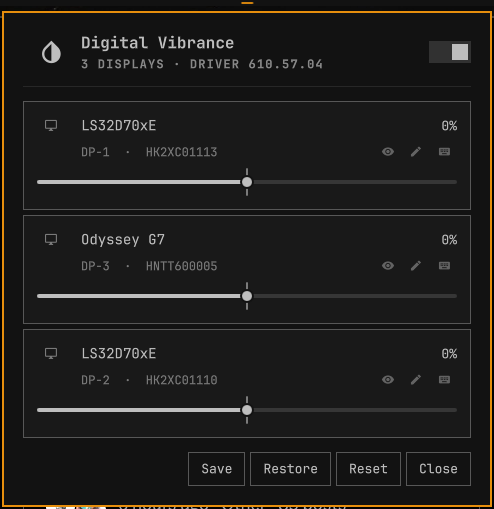
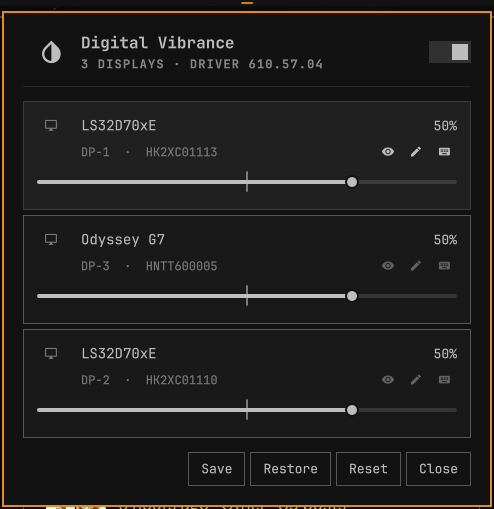
Drive the panel from the keyboard, and halve the neutral mark
The mark at zero loses half its protrusion. Sizing it off the knob rather than
halving the whole thing keeps it visible at exactly 0%, where the knob parks on
top of it — a mark shorter than the knob would vanish precisely when the slider
sits on the value it marks, which is where all three displays sit by default.

The panel is now keyboard driven. A row cursor tracks which display the keys act
on: Tab and up/down walk it through the cards in the order they are shown,
wrapping at the ends; left/right move that display by 5%; Enter flashes it, and
Escape still closes. Hovering a card moves the cursor there too, so the arrows
act on whatever is under the pointer without a separate step, and the cursored
row lights up the same way a hovered one does. Tab no longer jumps to the
neighbouring bar popup — with a handful of rows, cycling inside the panel is the
more useful thing for it to do. Arrows step 5% rather than the wheel's 1%:
crossing the range a percent at a time would take two hundred presses, and the
slider and the numeric field are still there for an exact landing.

None of that worked at first, and the reason is worth recording. PopupCard is an
xdg-popup, which by its own documentation only receives keys once a click or
hover has routed focus through its parent surface — the arrow keys went nowhere
at all. KeyboardPanel is the layer-shell equivalent, same API plus a
keyboard-focus prime, and it hands active focus to its `focusTarget` once the
[…]

diff --git a/Panel.qml b/Panel.qml
@@ -41,6 +41,36 @@ Panel {
   // Whether the install instructions under the missing-binary warning are open.
   property bool helpOpen: false
 
+  // ------------------------------------------------------------ keyboard
+  //
+  // Which row the keyboard is aimed at, as a position in `displays`. Hovering a
+  // row moves it there too, so the arrows always act on the row under the
+  // cursor without the user having to think about which input owns the panel.
+  property int cursorRow: 0
+
+  // Arrow steps are coarser than the wheel's 1%: crossing the full -100..100
+  // range a percent at a time would take two hundred presses. The slider and
+  // the numeric field remain the way to land on an exact value.
+  readonly property int keyStep: 5
+
+  function moveCursor(delta) {
+    var n = displays.length
+    if (n === 0) return
+    cursorRow = ((cursorRow + delta) % n + n) % n
+  }
+
+  function cursorDisplay() {
+    var n = displays.length
+    if (n === 0) return null
+    return displays[Math.max(0, Math.min(n - 1, cursorRow))]
+  }
+
+  function nudgeCursorValue(deltaPercent) {
+    var d = cursorDisplay()
+    if (!d || !service) return
+    service.setVibrancePercent(d.index, service.percentFor(d.index) + deltaPercent)
+  }
+
   // The card's inner padding, and therefore the amount the header and footer
   // are inset by so that *their* contents share the rows' left edge.
   //
@@ -82,12 +112,13 @@ Panel {
       if (service && service.identifyIndex >= 0) service.stopIdentify()
       return
     }
+    cursorRow = 0
     // Re-reading on open is cheap (one process) and catches vibrance or a
     // monitor layout changed by anything else since the panel was last shown.
     if (service) service.refresh()
-    // The catcher only sees keys once it holds focus, and the popup window
-    // does not exist yet on the frame `opened` flips.
-    Qt.callLater(function() { if (keyCatcher) keyCatcher.forceActiveFocus() })
+    // Focus is the panel's own job now: KeyboardPanel primes the surface for
+    // keyboard input and then hands active focus to its `focusTarget`, which
+    // has to wait for the surface to map rather than for `opened` to flip.
   }
 
   function applyPercent(index, percent) {
@@ -95,12 +126,18 @@ Panel {
     service.setVibrancePercent(index, Math.round(percent))
   }
 
-  PopupCard {
+  // KeyboardPanel, not PopupCard. PopupCard is an xdg-popup, which only ever
+  // receives keys once a click or hover has routed focus through its parent
+  // surface — arrow keys simply went nowhere. KeyboardPanel is the layer-shell
+  // equivalent with the same API plus a keyboard-focus prime, and `focusTarget`
+  // hands active focus to the key catcher once the surface has mapped.
+  KeyboardPanel {
     id: card
     anchorItem: root.anchorItem
     owner: root.barIdentity
     bar: root.bar
     open: root.opened
+    focusTarget: keyCatcher
     // One margin on every side. The card borders, the hero's toggle and the
     // footer buttons all sit on the content column's edge, so this is equally
     // the gap to the right of the buttons and the gap below them.
@@ -115,7 +152,24 @@ Panel {
       // the Escape that dismisses it.
       blocked: root.editingIndex >= 0 || root.numericIndex >= 0
       onCloseRequested: root.close()
-      onTabRequested: function(direction) { root.switchPanel(direction) }
+      // Tab walks the displays rather than jumping to the neighbouring bar
+      // popup. With at most a handful of rows, cycling within the panel is the
+      // more useful thing for the key to do.
+      onTabRequested: function(direction) { root.moveCursor(direction) }
+      // Left/right adjust the row the cursor is on; up/down walk between rows,
+      // the same as Tab. The catcher maps h/j/k/l onto these too.
+      onMoveRequested: function(dx, dy) {
+        if (dx !== 0) root.nudgeCursorValue(dx * root.keyStep)
+        else if (dy !== 0) root.moveCursor(dy)
+      }
+      // Enter flashes the display the cursor is on, so a keyboard user can
+      // still answer "which monitor is this row?".
+      onReturnRequested: {
+        var d = root.cursorDisplay()
+        if (!d || !root.service) return
+        if (root.service.identifyIndex === d.index) root.service.stopIdentify()
+        else root.service.identify(d.index)
+      }
     }
 
     Column {
@@ -301,14 +355,16 @@ Panel {
           delegate: BorderSurface {
             id: rowCard
             required property var modelData
+            required property int index
 
+            readonly property bool cursored: root.cursorRow === index
             readonly property int displayIndex: modelData.index
             readonly property var monitor: root.service ? root.service.monitorFor(displayIndex) : null
             readonly property string customName: root.service ? root.service.nameFor(displayIndex) : ""
             readonly property bool editing: root.editingIndex === displayIndex
             readonly property bool numeric: root.numericIndex === displayIndex
             readonly property bool identifying: root.service ? root.service.identifyIndex === displayIndex : false
-            readonly property bool hot: hover.hovered || editing || numeric || identifying
+            readonly property bool hot: hover.hovered || cursored || editing || numeric || identifying
 
             width: parent.width
             implicitHeight: rowColumn.implicitHeight + contentTopInset + contentBottomInset
@@ -336,7 +392,12 @@ Panel {
               ColorAnimation { duration: 120; easing.type: Easing.OutCubic }
             }
 
-            HoverHandler { id: hover }
+            // Pointing at a row aims the keyboard at it as well, so the arrows
+            // act on whatever is under the cursor without a separate step.
+            HoverHandler {
+              id: hover
+              onHoveredChanged: if (hovered) root.cursorRow = rowCard.index
+            }
 
             // Dragging a slider fires on every pixel of movement. Each apply is
             // a process spawn, so the drag is rate-limited here and the final
@@ -595,7 +656,12 @@ Panel {
                 Rectangle {
                   anchors.centerIn: parent
                   width: Math.max(1, Style.space(2))
-                  height: slider.knobSize + Style.space(12)
+                  // Half the protrusion it used to have. Sizing it by the knob
+                  // rather than halving the whole mark keeps it visible at
+                  // exactly 0%, where the knob parks on top of it — a mark
+                  // shorter than the knob would disappear precisely when the
+                  // slider is sitting on the value it marks.
+                  height: slider.knobSize + Style.space(6)
                   radius: width / 2
                   color: root.dim
                 }

diff --git a/DEVELOPMENT.md b/DEVELOPMENT.md
@@ -49,10 +49,17 @@ Worth knowing, because guessing at them is how the first version broke:
   and positions that panel itself and injects `service` into it directly. This
   plugin does not use it; its panel is nested inside the bar widget, which is
   what every other panel-bearing plugin does.
-- Base components come from `qs.Ui` (`BarWidget`, `Panel`, `PopupCard`,
+- Base components come from `qs.Ui` (`BarWidget`, `Panel`, `KeyboardPanel`,
   `PanelSlider`, `PanelKeyCatcher`, `Button`, …) and tokens from `qs.Commons`
   (`Style`, `Color`). Read `/usr/share/omarchy/shell/Ui/` before inventing a
   control.
+- **A panel that wants keys must be a `KeyboardPanel`, not a `PopupCard`.**
+  PopupCard is an xdg-popup, which only receives keys once a click or hover has
+  routed focus through its parent surface; KeyboardPanel is the layer-shell
+  equivalent with the same API plus a keyboard-focus prime. Set its
+  `focusTarget` to the `PanelKeyCatcher` — the surface has to map before
+  anything inside it can take active focus, so doing it yourself on `opened` is
+  too early.
 - The panel's look is the house style, not a bespoke design. `PanelHero` gives
   the icon + title + small-caps status header, with the bypass switch in its
   `trailingControl` slot; row cards are `BorderSurface` tinted
@@ -126,7 +133,7 @@ vibrance, so end it on `resetAll()`.
   knob parks dead centre and a shorter mark vanishes under it.
 - The panel has two vertical rules, and both matter. The **outer** one is the
   content column's edge: card borders, the hero's toggle and the footer buttons
-  all sit on it, one `PopupCard.padding` in from the frame — which is also the
+  all sit on it, one `KeyboardPanel.padding` in from the frame — which is also the
   gap below the buttons, so the margin reads the same on every side. The
   **inner** one is `rowInset` further in: the card's own padding, and what the
   hero and the status texts are shifted by so their contents line up with the
@@ -145,6 +152,12 @@ vibrance, so end it on `resetAll()`.
   disabled until a snapshot exists.
 - Right-click on a slider neutralizes that display; Reset neutralizes all and
   leaves the snapshot and names intact.
+- Tab and up/down walk the display cards in the order they are shown (wrapping
+  at the ends), left/right move the cursored row by 5%, Enter flashes it and
+  Escape closes the panel. Hovering a card moves the keyboard cursor to it.
+  `wtype -k Right` and friends drive all of this from a script — it is the one
+  input this environment can synthesize, so use it rather than reasoning about
+  the key handling.
 - Values survive `omarchy-restart-shell` (check
   `~/.local/state/omarchy/omavibrance.json`); a version 1 file still loads.
 - With `nvibrant` renamed away, the panel shows the missing-binary warning and

diff --git a/README.md b/README.md
@@ -23,6 +23,9 @@ bar, using [`nvibrant`](https://github.com/Tremeschin/nvibrant).
 - **Save** pins the current values; **Restore** comes back to them after
   experimenting. Live values are also persisted continuously and re-applied when
   the shell restarts, since `nvibrant` has no way to read back what is set.
+- Fully keyboard driven: **Tab** (or up/down) walks the displays, **left/right**
+  adjust the one the cursor is on in 5% steps, **Enter** flashes it, **Escape**
+  closes. Pointing at a row aims the keyboard at it too.
 - Right-click a slider to return that display to neutral; **Reset** neutralizes
   all of them.
 - Warns in the panel if `nvibrant` is missing or an invocation fails; the
